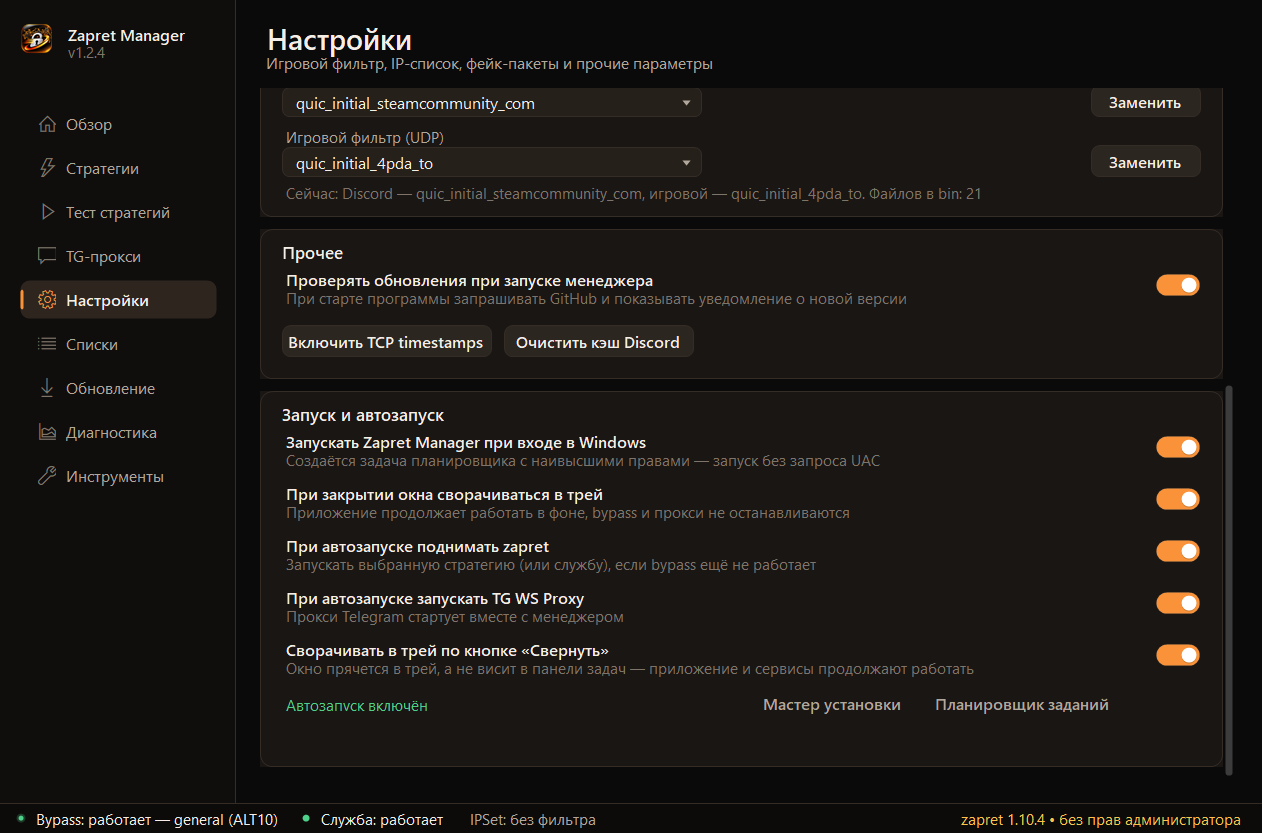
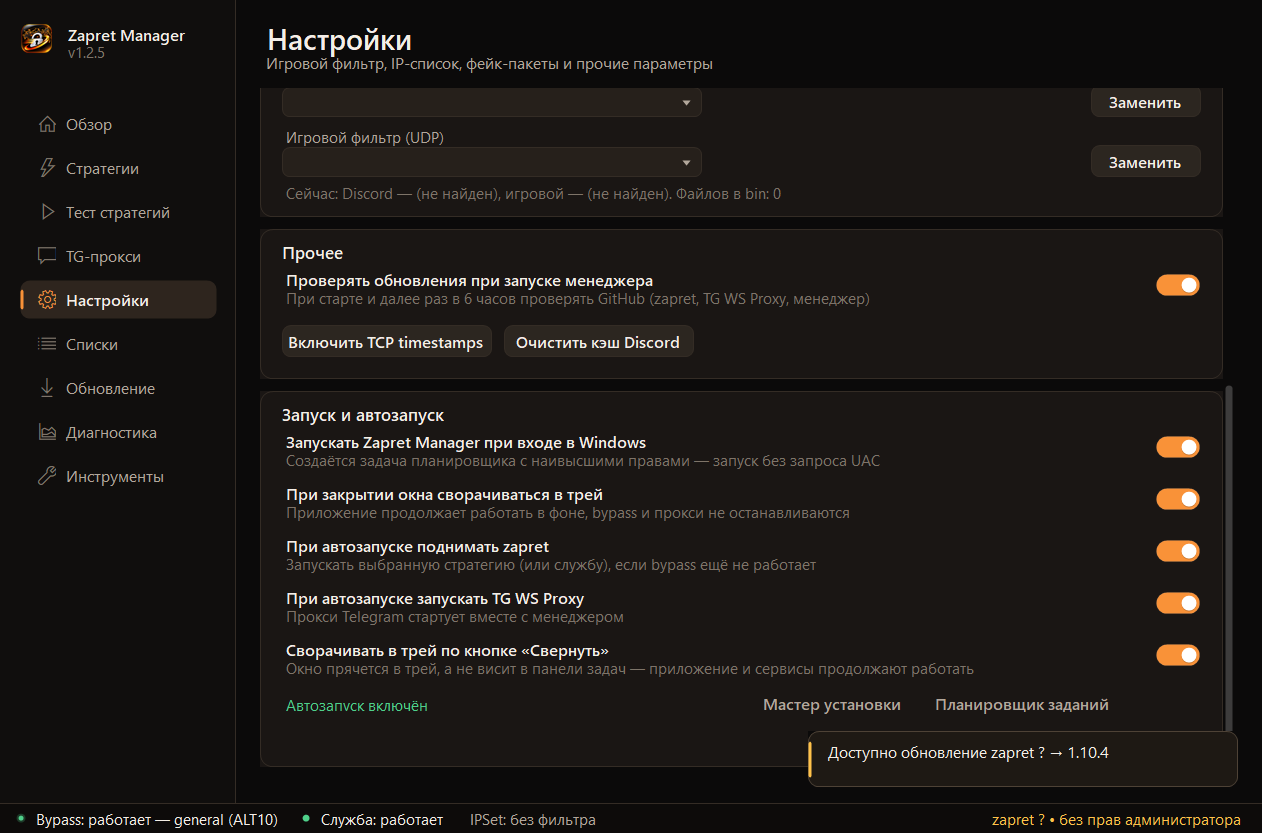
Проверка списков (дубликаты, «*.домен») и автопроверка обновлений раз в 6 часов
- ListAudit: поиск повторов без учёта регистра и недопустимых «*.домен»
- списки: подсветка повторов красным, «*.» жёлтым, счётчики в строке состояния, кнопка «Убрать дубликаты», автоочистка при сохранении
- автопроверка обновлений zapret/TG WS Proxy/менеджера каждые 6 часов (пока приложение работает)
- README: формат списков, поддомены, частота проверок; версия 1.2.5

diff --git a/src/PageLists.cs b/src/PageLists.cs
@@ -1,4 +1,4 @@
-using System;
+using System;
 using System.Collections.Generic;
 using System.Drawing;
 using System.IO;
@@ -25,6 +25,7 @@ namespace ZapretManager
         private Label _info;
         private Label _pathLabel;
         private RoundButton _btnSave;
+        private RoundButton _btnDedupe;
         private RoundButton _btnAdd;
         private RoundButton _btnNotepad;
         private RoundButton _btnReset;
@@ -65,7 +66,7 @@ namespace ZapretManager
 
         private void BuildEditorCard()
         {
-            _card = NewCard("Файлы списков", 410);
+            _card = NewCard("Файлы списков", 442);
 
             _fileList = new DarkList();
             _fileList.Location = new Point(20, 44);
@@ -127,10 +128,17 @@ namespace ZapretManager
             _info = L("", Theme.Small, Theme.TextMuted, 268, y + 38);
             _card.Controls.Add(_info);
 
+            _btnDedupe = Btn("Убрать дубликаты", ButtonKind.Link, 160);
+            _btnDedupe.Location = new Point(268, y + 64);
+            _btnDedupe.Anchor = AnchorStyles.Left | AnchorStyles.Bottom;
+            _btnDedupe.Visible = false;
+            _btnDedupe.Click += delegate { DedupeNow(); };
+            _card.Controls.Add(_btnDedupe);
+
             _card.Resize += delegate
             {
                 int w = _card.ClientSize.Width;
-                _editor.Size = new Size(w - 288, Math.Max(80, _card.ClientSize.Height - 158));
+                _editor.Size = new Size(w - 288, Math.Max(80, _card.ClientSize.Height - 190));
                 _fileList.Height = Math.Max(80, _card.ClientSize.Height - 108);
             };
 
@@ -300,9 +308,18 @@ namespace ZapretManager
             }
             string extra = "";
             if (!f.Official && entries == 0) extra = "  •  файл пуст — так нельзя для списка доменов";
+
+            List<ListNote> notes = ListAudit.Analyze(_editor.Text);
+            int dupes = ListAudit.CountKind(notes, "dup");
+            int wild = ListAudit.CountKind(notes, "wildcard");
+            string issues = "";
+            if (dupes > 0) issues += string.Format("  •  дубликатов: {0}", dupes);
+            if (wild > 0) issues += string.Format("  •  «*.» не поддерживается: {0}", wild);
+
             string state = _dirty ? "Есть несохранённые изменения" : "Сохранено";
-            _info.Text = string.Format("{0}  •  строк: {1}, записей: {2}{3}", state, lines, entries, extra);
-            _info.ForeColor = entries == 0 && !f.Official ? Theme.Warn : Theme.TextMuted;
+            _info.Text = string.Format("{0}  •  строк: {1}, записей: {2}{3}{4}", state, lines, entries, extra, issues);
+            _info.ForeColor = (entries == 0 && !f.Official) || dupes > 0 || wild > 0 ? Theme.Warn : Theme.TextMuted;
+            if (_btnDedupe != null) _btnDedupe.Visible = dupes > 0;
         }
 
         // ---------- разметка добавленных строк ----------
@@ -320,6 +337,12 @@ namespace ZapretManager
                 string[] lines = text.Split('\n');
                 List<string> baseline = _changes.BaselineEntries;
                 bool inBlock = false;
+                HashSet<string> duplicated = new HashSet<string>(StringComparer.OrdinalIgnoreCase);
+                HashSet<string> seenEntries = new HashSet<string>(StringComparer.OrdinalIgnoreCase);
+                foreach (ListNote note in ListAudit.Analyze(text))
+                {
+                    if (note.Kind == "dup") duplicated.Add(note.Entry);
+                }
                 int pos = 0;
                 for (int i = 0; i < lines.Length; i++)
                 {
@@ -331,6 +354,15 @@ namespace ZapretManager
                     if (inBlock || (trimmed.Length > 0 && !trimmed.StartsWith("#") && !ListChanges.Contains(baseline, trimmed)))
                     {
                         color = Color.FromArgb(140, 226, 170);   // добавлено вами
+                    }
+                    string norm = ListAudit.Normalize(trimmed);
+                    if (norm.StartsWith("*."))
+                    {
+                        color = Color.FromArgb(255, 194, 74);    // недопустимая звёздочка
+                    }
+                    if (norm.Length > 0 && duplicated.Contains(norm))
+                    {
+                        color = Color.FromArgb(255, 120, 105);   // повтор
                     }
                     else if (trimmed.StartsWith("#"))
                     {
@@ -409,6 +441,21 @@ namespace ZapretManager
         {
             ListFile f = SelectedFile();
             if (f == null) return;
+
+            // Чистим список перед сохранением: «*.домен» → «домен», повторы — убираем
+            int fixedWild, removedDup;
+            string prepared = ListAudit.FixWildcards(_editor.Text, out fixedWild);
+            prepared = ListAudit.RemoveDuplicates(prepared, out removedDup);
+            if (fixedWild > 0 || removedDup > 0)
+            {
+                _loading = true;
+                _editor.Text = prepared.Replace("\r\n", "\n").Replace("\n", "\r\n");
+                _loading = false;
+                _dirty = true;
+                ApplyMarks();
+                UpdateInfo();
+                Shell.Notify(string.Format("Список почищен: убрано повторов {0}, заменено «*.» {1}.", removedDup, fixedWild), LogLevel.Ok);
+            }
             if (f.Official && _changes == null)
             {
                 Shell.Notify("Официальные списки можно править — изменения будут помечены. Перезагрузите страницу.", LogLevel.Warn);
@@ -520,6 +567,24 @@ namespace ZapretManager
             ApplyMarks();
             UpdateChangesCard();
             Shell.Notify("Текущее содержимое зафиксировано как официальное.", LogLevel.Ok);
+        }
+
+        private void DedupeNow()
+        {
+            int removed;
+            string text = ListAudit.RemoveDuplicates(_editor.Text, out removed);
+            if (removed == 0)
+            {
+                Shell.Notify("Повторов нет.", LogLevel.Ok);
+                return;
+            }
+            _loading = true;
+            _editor.Text = text.Replace("\r\n", "\n").Replace("\n", "\r\n");
+            _loading = false;
+            _dirty = true;
+            ApplyMarks();
+            UpdateInfo();
+            Shell.Notify(string.Format("Удалено повторов: {0}. Не забудьте сохранить.", removed), LogLevel.Ok);
         }
 
         private void AddEmptyLine()

diff --git a/src/ListAudit.cs b/src/ListAudit.cs
@@ -1,0 +1,132 @@
+using System;
+using System.Collections.Generic;
+using System.Text;
+
+namespace ZapretManager
+{
+    public sealed class ListNote
+    {
+        public int Line;          // 0-based индекс строки в тексте
+        public string Entry = ""; // нормализованная запись
+        public string Kind = "";  // dup | wildcard
+    }
+
+    /// <summary>
+    /// Проверки для списков zapret: дубликаты и недопустимые «*.домен».
+    /// В hostlist поддомены учитываются автоматически (см. docs zapret),
+    /// поэтому звёздочка не нужна и не работает — она попадает в файл как есть.
+    /// </summary>
+    public static class ListAudit
+    {
+        public static List<ListNote> Analyze(string text)
+        {
+            List<ListNote> notes = new List<ListNote>();
+            if (string.IsNullOrEmpty(text)) return notes;
+            string[] lines = text.Replace("\r\n", "\n").Split('\n');
+            Dictionary<string, int> seen = new Dictionary<string, int>(StringComparer.OrdinalIgnoreCase);
+            for (int i = 0; i < lines.Length; i++)
+            {
+                string entry = Normalize(lines[i]);
+                if (entry.Length == 0) continue;
+
+                if (entry.StartsWith("*."))
+                {
+                    ListNote w = new ListNote();
+                    w.Line = i;
+                    w.Entry = entry;
+                    w.Kind = "wildcard";
+                    notes.Add(w);
+                }
+
+                int first;
+                if (seen.TryGetValue(entry, out first))
+                {
+                    ListNote d = new ListNote();
+                    d.Line = i;
+                    d.Entry = entry;
+                    d.Kind = "dup";
+                    notes.Add(d);
+                }
+                else
+                {
+                    seen[entry] = i;
+                }
+            }
+            return notes;
+        }
+
+        public static int CountKind(List<ListNote> notes, string kind)
+        {
+            int n = 0;
+            foreach (ListNote note in notes) if (note.Kind == kind) n++;
+            return n;
+        }
+
+        /// <summary>Убирает повторные записи, сохраняя комментарии и порядок.</summary>
+        public static string RemoveDuplicates(string text, out int removed)
+        {
+            removed = 0;
+            if (string.IsNullOrEmpty(text)) return text;
+            bool endsWithNewLine = text.EndsWith("\n");
+            string[] lines = text.Replace("\r\n", "\n").Split('\n');
+            List<string> result = new List<string>();
+            HashSet<string> seen = new HashSet<string>(StringComparer.OrdinalIgnoreCase);
+            foreach (string line in lines)
+            {
+                string entry = Normalize(line);
+                if (entry.Length == 0)
+                {
+                    result.Add(line);
+                    continue;
+                }
+                if (!seen.Add(entry))
+                {
+                    removed++;
+                    continue;
+                }
+                result.Add(line);
+            }
+            string joined = string.Join("\n", result.ToArray());
+            if (!endsWithNewLine && joined.EndsWith("\n")) joined = joined.TrimEnd('\n');
+            return joined;
+        }
+
+        /// <summary>Заменяет «*.домен» на «домен» — так поддомены и так попадают в список.</summary>
+        public static string FixWildcards(string text, out int fixedCount)
+        {
+            fixedCount = 0;
+            if (string.IsNullOrEmpty(text)) return text;
+            string[] lines = text.Replace("\r\n", "\n").Split('\n');
+            for (int i = 0; i < lines.Length; i++)
+            {
+                string raw = lines[i];
+                int pos = 0;
+                while (pos < raw.Length && char.IsWhiteSpace(raw[pos])) pos++;
+                string body = raw.Substring(pos);
+                if (body.StartsWith("*.") && body.Length > 2)
+                {
+                    lines[i] = raw.Substring(0, pos) + body.Substring(2);
+                    fixedCount++;
+                }
+            }
+            return string.Join("\n", lines);
+        }
+
+        /// <summary>Запись без комментариев, пробелов и с нижним регистром.</summary>
+        public static string Normalize(string line)
+        {
+            if (line == null) return "";
+            string t = line.Trim();
+            if (t.Length == 0) return "";
+            // в zapret комментарии начинаются с #, ; или /
+            if (t[0] == '#' || t[0] == ';' || t[0] == '/') return "";
+            return t.ToLowerInvariant();
+        }
+
+        public static bool IsComment(string line)
+        {
+            string t = (line ?? "").TrimStart();
+            return t.Length > 0 && (t[0] == '#' || t[0] == ';' || t[0] == '/');
+        }
+    }
+}

diff --git a/src/PageSettings.cs b/src/PageSettings.cs
@@ -260,7 +260,7 @@ namespace ZapretManager
         {
             _miscCard = NewCard("Прочее", 150);
             _tgManagerUpdate = AddToggleRow(_miscCard, 40, "Проверять обновления при запуске менеджера",
-                "При старте программы запрашивать GitHub и показывать уведомление о новой версии", Shell.Config.GetBool("CheckUpdatesOnStartup", true), delegate
+                "При старте и далее раз в 6 часов проверять GitHub (zapret, TG WS Proxy, менеджер)", Shell.Config.GetBool("CheckUpdatesOnStartup", true), delegate
                 {
                     if (_suppress) return;
                     Shell.Config.SetBool("CheckUpdatesOnStartup", _tgManagerUpdate.Checked);

diff --git a/src/AssemblyInfo.cs b/src/AssemblyInfo.cs
@@ -6,6 +6,6 @@ using System.Runtime.InteropServices;
 [assembly: AssemblyProduct("Zapret Manager")]
 [assembly: AssemblyCompany("RoBiN19666")]
 [assembly: AssemblyCopyright("Открытый исходный код. Оболочка не является официальным приложением Flowseal.")]
-[assembly: AssemblyVersion("1.2.4.0")]
-[assembly: AssemblyFileVersion("1.2.4.0")]
+[assembly: AssemblyVersion("1.2.5.0")]
+[assembly: AssemblyFileVersion("1.2.5.0")]
 [assembly: ComVisible(false)]

diff --git a/src/Core.cs b/src/Core.cs
@@ -670,7 +670,7 @@ namespace ZapretManager
 
     public static class AppInfo
     {
-        public const string Version = "1.2.4";
+        public const string Version = "1.2.5";
         public const string Title = "Zapret Manager";
 
         /// <summary>Служебный режим снимка окна (используется при отладке и для отчётов).</summary>
